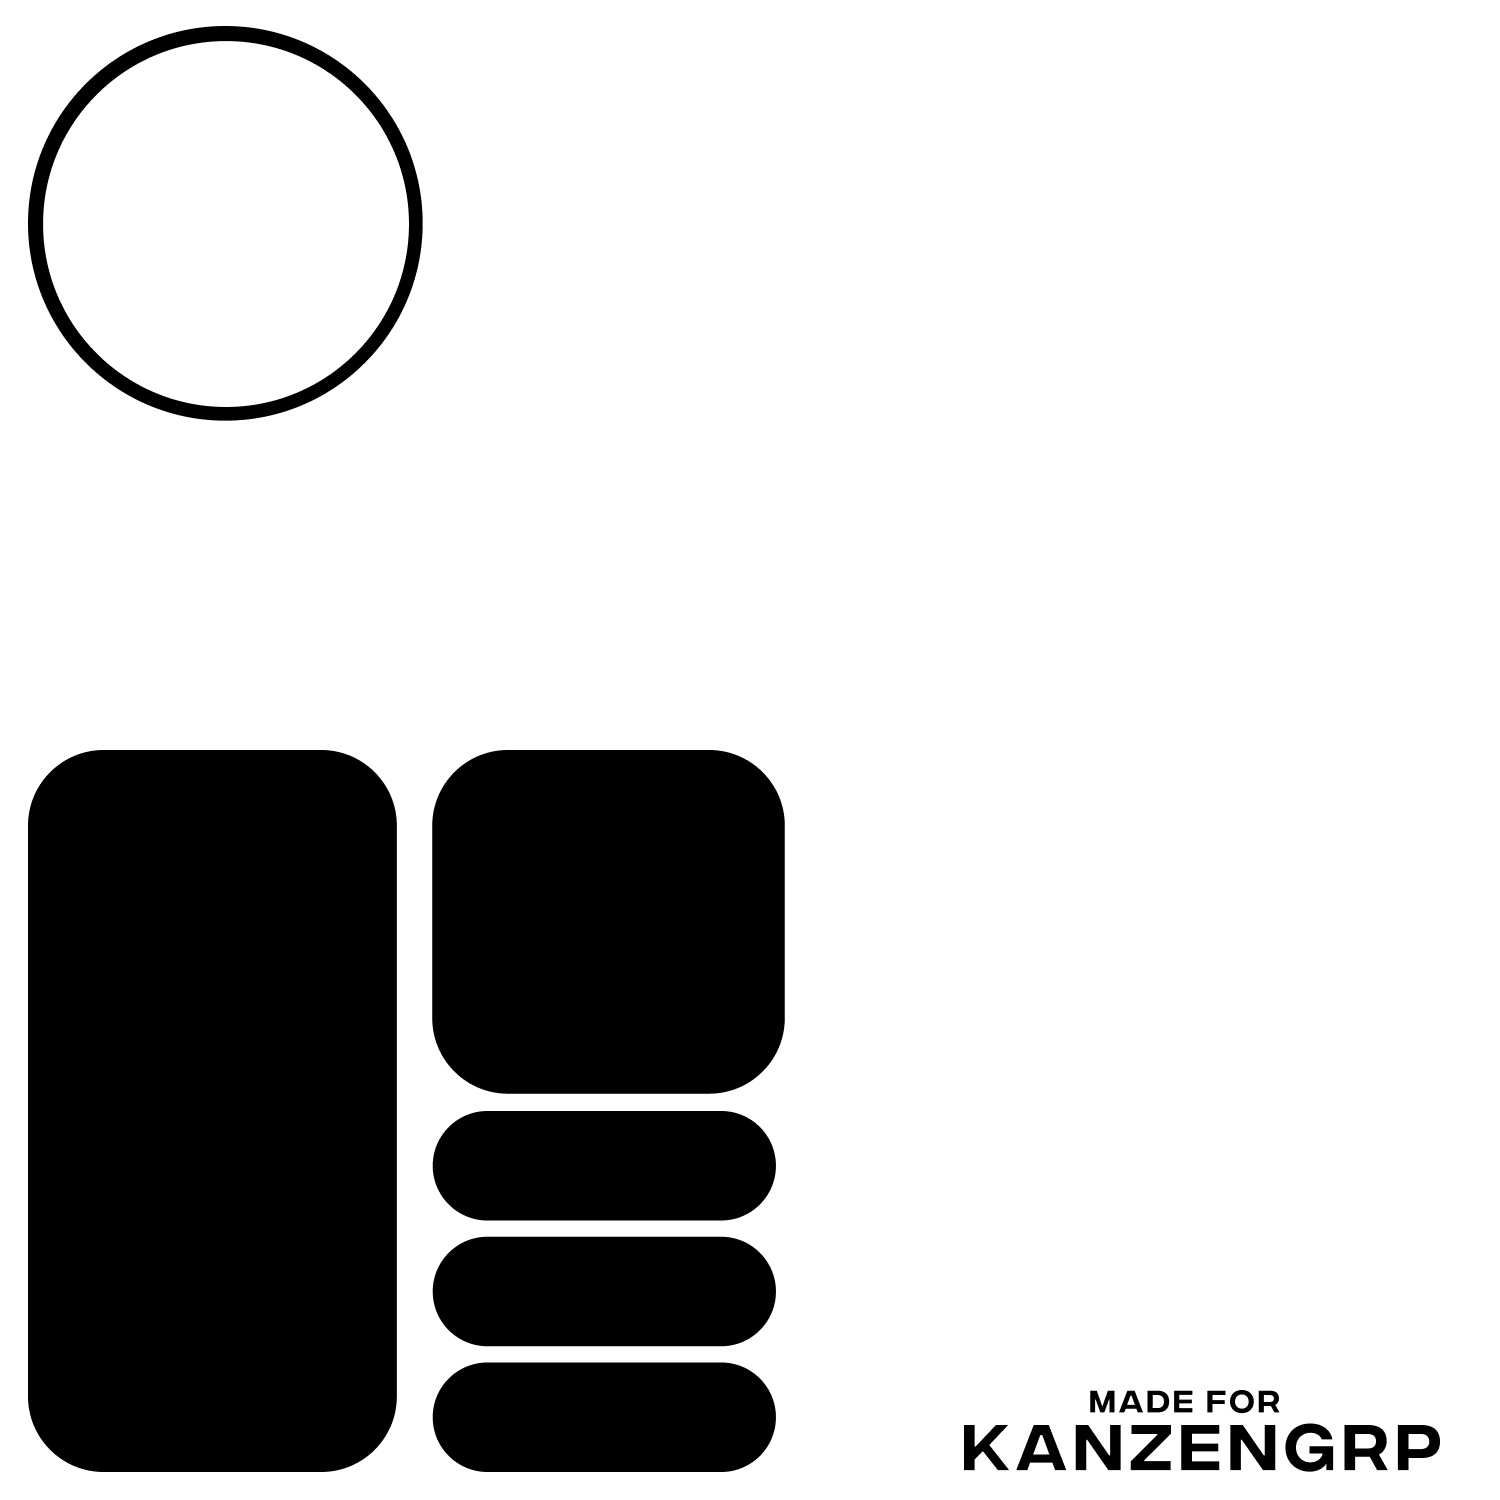
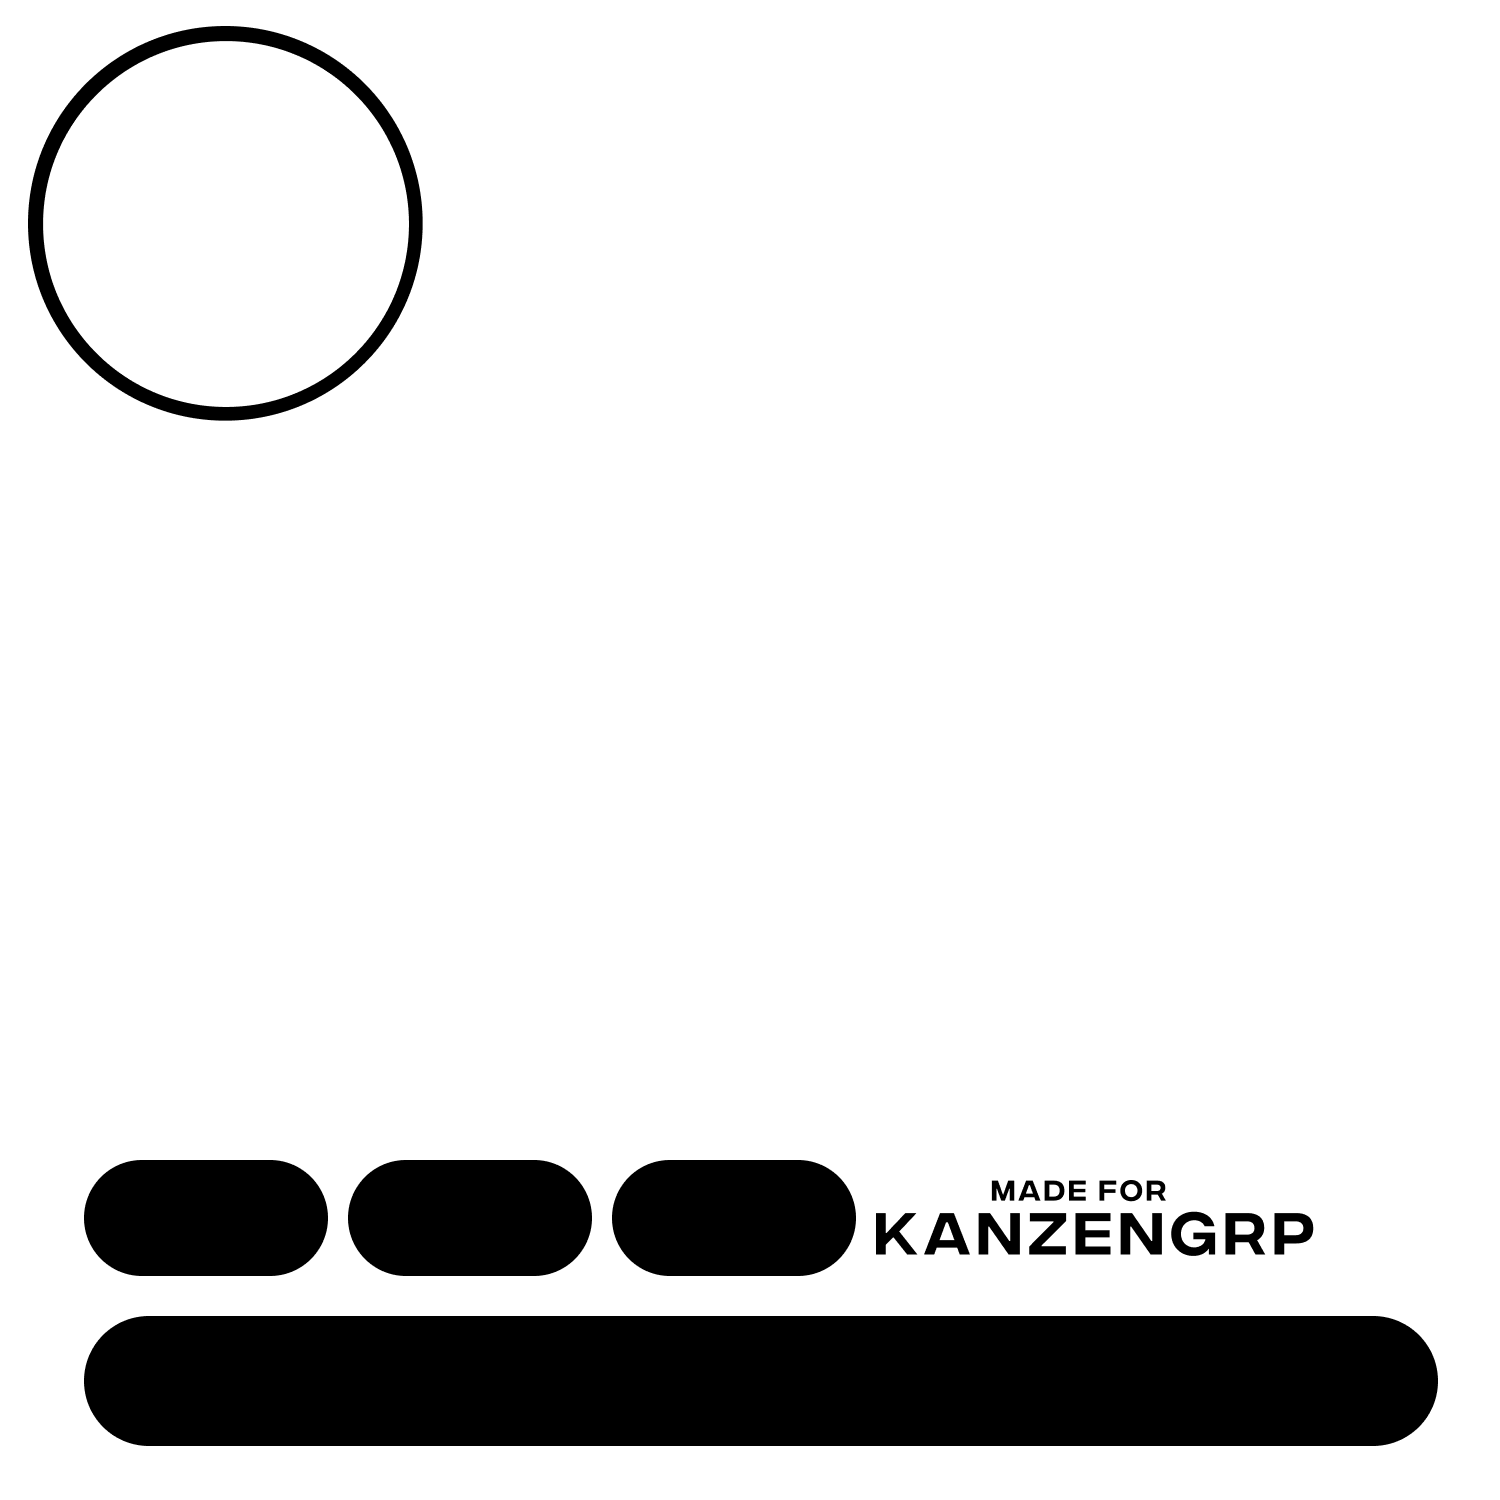
im indecisive

Changed region(s): [[0.0, 0.4907, 0.9813, 0.9813]]

diff --git a/cogs/levels.py b/cogs/levels.py
@@ -646,93 +646,43 @@ class levels(commands.Cog):
         devs_role = any(role.id == devs_id for role in user.roles)
         zennies_role_id = 1121842393994494082
         has_zennies_role = any(role.id == zennies_role_id for role in user.roles)
-        diamondrank_role_id = 1187540240836087858
-        has_diamondrank_role = any(role.id == diamondrank_role_id for role in user.roles)
-        goldrank_role_id = 1187540222708297748
-        has_goldrank_role = any(role.id == goldrank_role_id for role in user.roles)
-        silverrank_role_id = 1187508615364477039
-        has_silverrank_role = any(role.id == silverrank_role_id for role in user.roles)
-        bronzerank_role_id = 1187508597761003572
-        has_bronzerank_role = any(role.id == bronzerank_role_id for role in user.roles)
-        platrank_role_id = 1187540267696398427
-        has_platrank_role = any(role.id == platrank_role_id for role in user.roles)
-        eliterank_role_id = 1187540294221172786
-        has_eliterank_role = any(role.id == eliterank_role_id for role in user.roles)
-
-        # level ranked badges
-        if has_eliterank_role:
-            eliterank_role_img = Image.open('./assets/eliterank.png')
-            eliterank_role_img = eliterank_role_img.resize((225, 225))
-            custom_x = 190
-            custom_y = 360
-            card.paste(eliterank_role_img, (custom_x, custom_y), eliterank_role_img)
-        elif has_platrank_role:
-            platrank_role_img = Image.open('./assets/platrank.png')
-            platrank_role_img = platrank_role_img.resize((225, 225))
-            custom_x = 195
-            custom_y = 360
-            card.paste(platrank_role_img, (custom_x, custom_y), platrank_role_img)
-        elif has_diamondrank_role:
-            diamondrank_role_img = Image.open('./assets/diamondrank.png')
-            diamondrank_role_img = diamondrank_role_img.resize((225, 225))
-            custom_x = 193
-            custom_y = 360
-            card.paste(diamondrank_role_img, (custom_x, custom_y), diamondrank_role_img)
-        elif has_goldrank_role:
-            goldrank_role_img = Image.open('./assets/goldrank.png')
-            goldrank_role_img = goldrank_role_img.resize((225, 225))
-            custom_x = 191
-            custom_y = 360
-            card.paste(goldrank_role_img, (custom_x, custom_y), goldrank_role_img)
-        elif has_silverrank_role:
-            silverrank_role_img = Image.open('./assets/silverrank.png')
-            silverrank_role_img = silverrank_role_img.resize((225, 225))
-            custom_x = 191
-            custom_y = 360
-            card.paste(silverrank_role_img, (custom_x, custom_y), silverrank_role_img)
-        elif has_bronzerank_role:
-            bronzerank_role_img = Image.open('./assets/bronzerank.png')
-            bronzerank_role_img = bronzerank_role_img.resize((225, 225))
-            custom_x = 190
-            custom_y = 357
-            card.paste(bronzerank_role_img, (custom_x, custom_y), bronzerank_role_img)
 
         # server thing badges
         if has_lead_role:
             special_role_img = Image.open('./assets/lead.png')
             special_role_img = special_role_img.resize((85, 85))
             custom_x = 135
-            custom_y = 145
+            custom_y = 135
             card.paste(special_role_img, (custom_x, custom_y), special_role_img)
         elif has_hstaff_role:
             special_role_img = Image.open('./assets/hstaff.png')
             special_role_img = special_role_img.resize((85, 85))
             custom_x = 135
-            custom_y = 145
+            custom_y = 135
             card.paste(special_role_img, (custom_x, custom_y), special_role_img)
         elif mods_role:
             mods_img = Image.open('./assets/mods.png')
             mods_img = mods_img.resize((85, 85))
             custom_x = 135
-            custom_y = 145
+            custom_y = 135
             card.paste(mods_img, (custom_x, custom_y), mods_img)
         elif has_staff_role:
             staff_role_img = Image.open('./assets/staff.png')
             staff_role_img = staff_role_img.resize((85, 85))
             custom_x = 135
-            custom_y = 145
+            custom_y = 135
             card.paste(staff_role_img, (custom_x, custom_y), staff_role_img)
         elif devs_role:
             devs_img = Image.open('./assets/devs.png')
             devs_img = devs_img.resize((85, 85))
             custom_x = 135
-            custom_y = 145
+            custom_y = 135
             card.paste(devs_img, (custom_x, custom_y), devs_img)
         elif has_zennies_role:
             zennies_role_img = Image.open('./assets/zennies.png')
             zennies_role_img = zennies_role_img.resize((85, 85))
             custom_x = 135
-            custom_y = 145
+            custom_y = 135
             card.paste(zennies_role_img, (custom_x, custom_y), zennies_role_img)
 
         # other badges
@@ -742,66 +692,66 @@ class levels(commands.Cog):
             booster_role_img = Image.open('./assets/booster.png')
             booster_role_img = booster_role_img.resize((65, 65))
             custom_x = 115
-            custom_y = 450
+            custom_y = 656
             card.paste(booster_role_img, (custom_x, custom_y), booster_role_img)
         else:
             special_role_img = Image.open('./assets/emptry badge.png')
             special_role_img = special_role_img.resize((65, 65))
             custom_x = 115
-            custom_y = 450
+            custom_y = 657
             card.paste(special_role_img, (custom_x, custom_y), special_role_img)
         top20_role_id = 1189632052727906376
         has_top20_role = any(role.id == top20_role_id for role in user.roles)
         if has_top20_role:
             top20_role_img = Image.open('./assets/top20.png')
             top20_role_img = top20_role_img.resize((65, 65))
-            custom_x = 33
-            custom_y = 450
+            custom_x = 185
+            custom_y = 657
             card.paste(top20_role_img, (custom_x, custom_y), top20_role_img)
         else:
             special_role_img = Image.open('./assets/emptry badge.png')
             special_role_img = special_role_img.resize((65, 65))
-            custom_x = 25
-            custom_y = 450
+            custom_x = 185
+            custom_y = 657
             card.paste(special_role_img, (custom_x, custom_y), special_role_img)
         ew_winner_role_id = 1216869981464035439
         has_ew_winner_role = any(role.id == ew_winner_role_id for role in user.roles)
         if has_ew_winner_role:
             ew_winner_role_img = Image.open('./assets/editwars badge.png')
             ew_winner_role_img = ew_winner_role_img.resize((85, 85))
-            custom_x = 105
-            custom_y = 375
+            custom_x = 245
+            custom_y = 647
             card.paste(ew_winner_role_img, (custom_x, custom_y), ew_winner_role_img)
         else:
             special_role_img = Image.open('./assets/emptry badge.png')
             special_role_img = special_role_img.resize((65, 65))
-            custom_x = 115
-            custom_y = 375
+            custom_x = 255
+            custom_y = 657
             card.paste(special_role_img, (custom_x, custom_y), special_role_img)
         reeces_family_role_id = 1193494182401163334
         has_reeces_family_role = any(role.id == reeces_family_role_id for role in user.roles)
         if has_reeces_family_role:
             reeces_family_role_img = Image.open('./assets/reeces family.png')
             reeces_family_role_img = reeces_family_role_img.resize((85, 85))
-            custom_x = 25
-            custom_y = 375
+            custom_x = 45
+            custom_y = 647
             card.paste(reeces_family_role_img, (custom_x, custom_y), reeces_family_role_img)
         else:
             special_role_img = Image.open('./assets/emptry badge.png')
             special_role_img = special_role_img.resize((65, 65))
-            custom_x = 25
-            custom_y = 375
+            custom_x = 45
+            custom_y = 657
             card.paste(special_role_img, (custom_x, custom_y), special_role_img)
         draw = ImageDraw.Draw(card, 'RGBA')
         shadow_text = Image.new("RGBA", card.size, (36, 36, 36, 0))
         shadow_draw = ImageDraw.Draw(shadow_text)
-        shadow_draw.text((17, 287), name, "#242424", font=Kotohogi3)
+        shadow_draw.text((227, 27), user.name, "#242424", font=Kotohogi3)
         shadow_blurred = shadow_text.filter(ImageFilter.GaussianBlur(radius=0.5))
         card.paste(shadow_blurred, (0, 0), shadow_blurred)
-        draw.text((15, 285), name, fill=levels['color'], font=Kotohogi3)
-        draw.text((283, 687), f'#{str(rank)}', fill=levels['color'], font=Kotohogi3)
-        draw.text((283, 563), f'{level}', fill=levels['color'], font=Kotohogi3)
-        draw.text((283, 627), f'{levels["messages"]}', fill=levels['color'], font=Kotohogi3)
+        draw.text((225, 25), user.name, fill=levels['color'], font=Kotohogi3)
+        draw.text((80, 585), f'#{str(rank)}', fill=levels['color'], font=Kotohogi3)
+        draw.text((213, 585), f'{level}', fill=levels['color'], font=Kotohogi3)
+        draw.text((335, 585), f'{levels["messages"]}', fill=levels['color'], font=Kotohogi3)
         buffer = BytesIO()
         card.save(buffer, 'png')
         buffer.seek(0)
